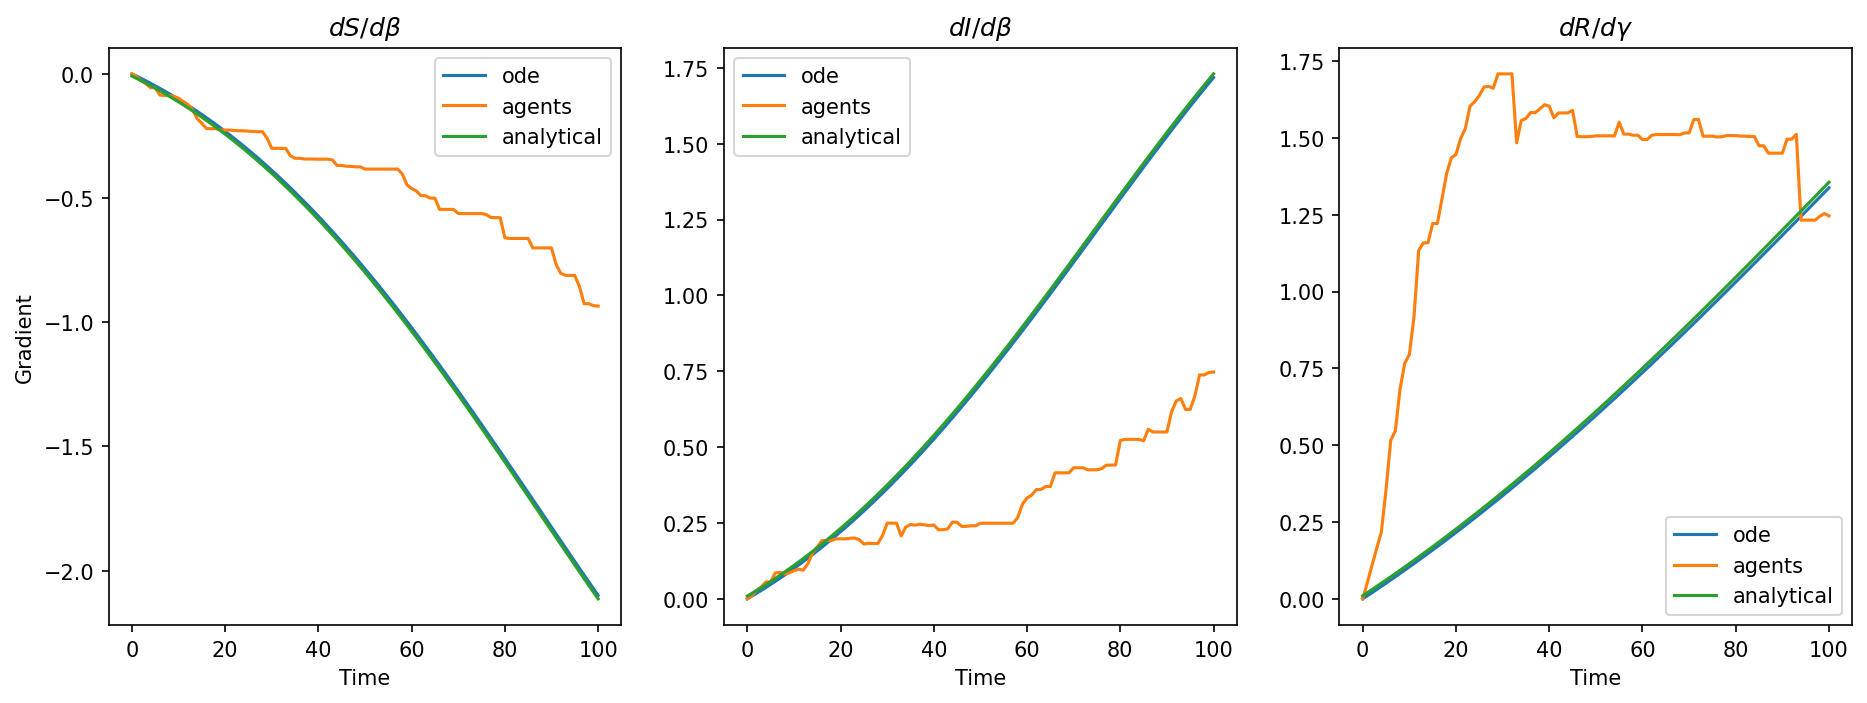
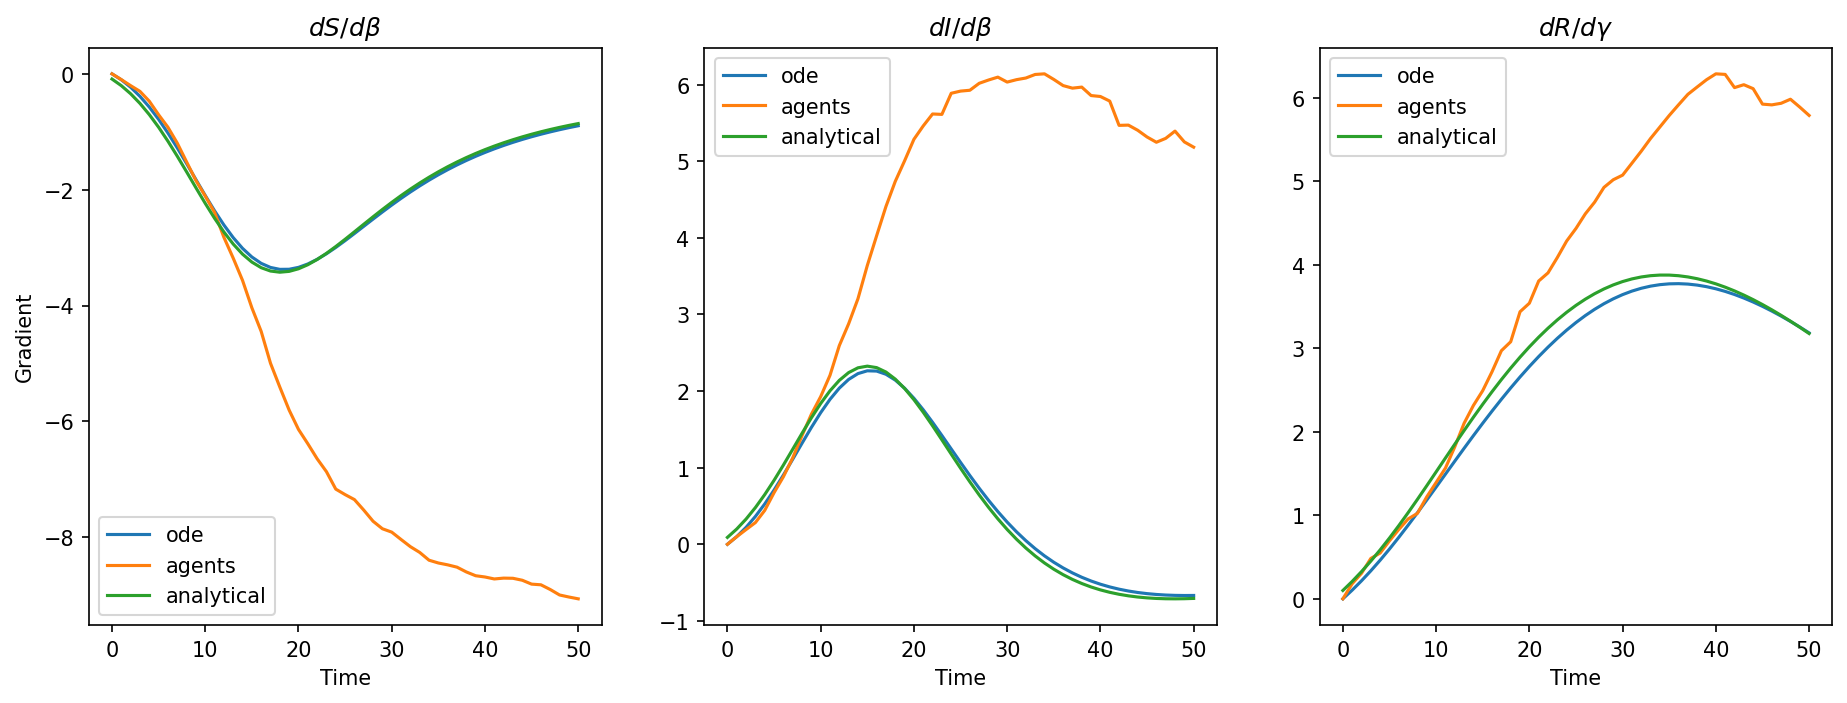
adapted to gpu

diff --git a/gradient_comparison_torch.py b/gradient_comparison_torch.py
@@ -141,21 +141,23 @@ if __name__ == "__main__":
     parser.add_argument("--t0", type=float, default=0.0)
     parser.add_argument("--beta", type=float, default=0.2)
     parser.add_argument("--gamma", type=float, default=0.05)
-    parser.add_argument("--n_agents", type=int, default=10000)
+    parser.add_argument("--n_agents", type=int, default=2000)
     parser.add_argument("--delta_t", type=int, default=1.0)
-    parser.add_argument("--n_timesteps", type=int, default=100)
+    parser.add_argument("--n_timesteps", type=int, default=50)
     parser.add_argument("--device", type=str, default="cpu")
 
     args = parser.parse_args()
+    device = args.device
 
     t1 = args.t0 + args.n_timesteps * args.delta_t
-    t = torch.linspace(args.t0, t1, int((t1 - args.t0) / args.delta_t) + 1)
+    t = torch.linspace(args.t0, t1, int((t1 - args.t0) / args.delta_t) + 1).to(device)
     y0 = torch.tensor(
         [1 - args.initial_fraction_infected, args.initial_fraction_infected, 0.0],
         dtype=torch.float32,
+        device=device
     )
     ode_model = SIRODE(y0, t)
-    ode_params = torch.tensor([args.beta, args.gamma], dtype=torch.float32)
+    ode_params = torch.tensor([args.beta, args.gamma], dtype=torch.float32, device=device)
 
     # agents
     graph = networkx.complete_graph(args.n_agents)
@@ -163,23 +165,24 @@ if __name__ == "__main__":
         graph, args.n_timesteps, args.n_agents, args.device, delta_t=args.delta_t
     )
     agent_params = torch.tensor(
-        [args.beta, args.gamma, args.initial_fraction_infected], dtype=torch.float32
+        [args.beta, args.gamma, args.initial_fraction_infected], dtype=torch.float32, device=device
     )
 
     # check models agree by plotting
-    y = ode_model(ode_params)
+    y = ode_model(ode_params).cpu()
     S = y[:, 0]
     I = y[:, 1]
     R = y[:, 2]
+    print("simulating agents...")
     S_agents, I_agents, R_agents = agents_model(agent_params)
     f, ax = plt.subplots()
     # plot three curves with agents one as a dashed line
     ax.plot(S, label="S", color="C0")
     ax.plot(I, label="I", color="C1")
     ax.plot(R, label="R", color="C2")
-    ax.plot(S_agents, "--", label="S agents", color="C0")
-    ax.plot(I_agents, "--", label="I agents", color="C1")
-    ax.plot(R_agents, "--", label="R agents", color="C2")
+    ax.plot(S_agents.cpu(), "--", label="S agents", color="C0")
+    ax.plot(I_agents.cpu(), "--", label="I agents", color="C1")
+    ax.plot(R_agents.cpu(), "--", label="R agents", color="C2")
     ax.set_xlabel("Time")
     ax.set_ylabel("Fraction of agents")
     ax.set_ylim(0, 1)
@@ -188,13 +191,18 @@ if __name__ == "__main__":
 
     # gradients
     # compute analytical gradient
+    print("Computing analytical gradient...")
     analytical_gradient = compute_analytical_gradient(
         args.beta, args.gamma, I, S, R, args.delta_t
     )
     # compute ode jacobian
-    ode_jacobian = torch.autograd.functional.jacobian(ode_model, ode_params)
+    print("Computing ode jacobian...")
+    ode_jacobian = torch.autograd.functional.jacobian(ode_model, ode_params).cpu()
+
     # compute agents jacobian
-    agents_jacobian = torch.autograd.functional.jacobian(agents_model, agent_params)
+    print("Computing agents jacobian....")
+    agents_jacobian = torch.func.jacfwd(agents_model, randomness="same")(agent_params)
+    agents_jacobian = [p.cpu() for p in agents_jacobian]
 
     # plot comparing jacobians
     f, ax = plt.subplots(1, 3, figsize=(15, 5))

diff --git a/sir_agents_torch.py b/sir_agents_torch.py
@@ -28,6 +28,7 @@ class SIR(torch.nn.Module):
         # convert graph from networkx to pytorch geometric
         self.graph = torch_geometric.utils.convert.from_networkx(graph).to(device)
         self.mp = SIRMessagePassing(aggr="add", node_dim=-1)
+        self.aux = torch.ones(self.n_agents, device=device)
         self.device = device
 
     def sample_bernoulli_gs(self, probs: torch.Tensor, tau: float = 0.1):
@@ -77,8 +78,8 @@ class SIR(torch.nn.Module):
         n_infected_neighbors = self.mp(self.graph.edge_index, infected, susceptible)
         n_neighbors = self.mp(
             self.graph.edge_index,
-            torch.ones(len(infected)),
-            torch.ones(len(susceptible)),
+            self.aux,
+            self.aux
         )
         # each contact has a beta chance of infecting a susceptible node
         prob_infection = 1.0 - torch.exp(
